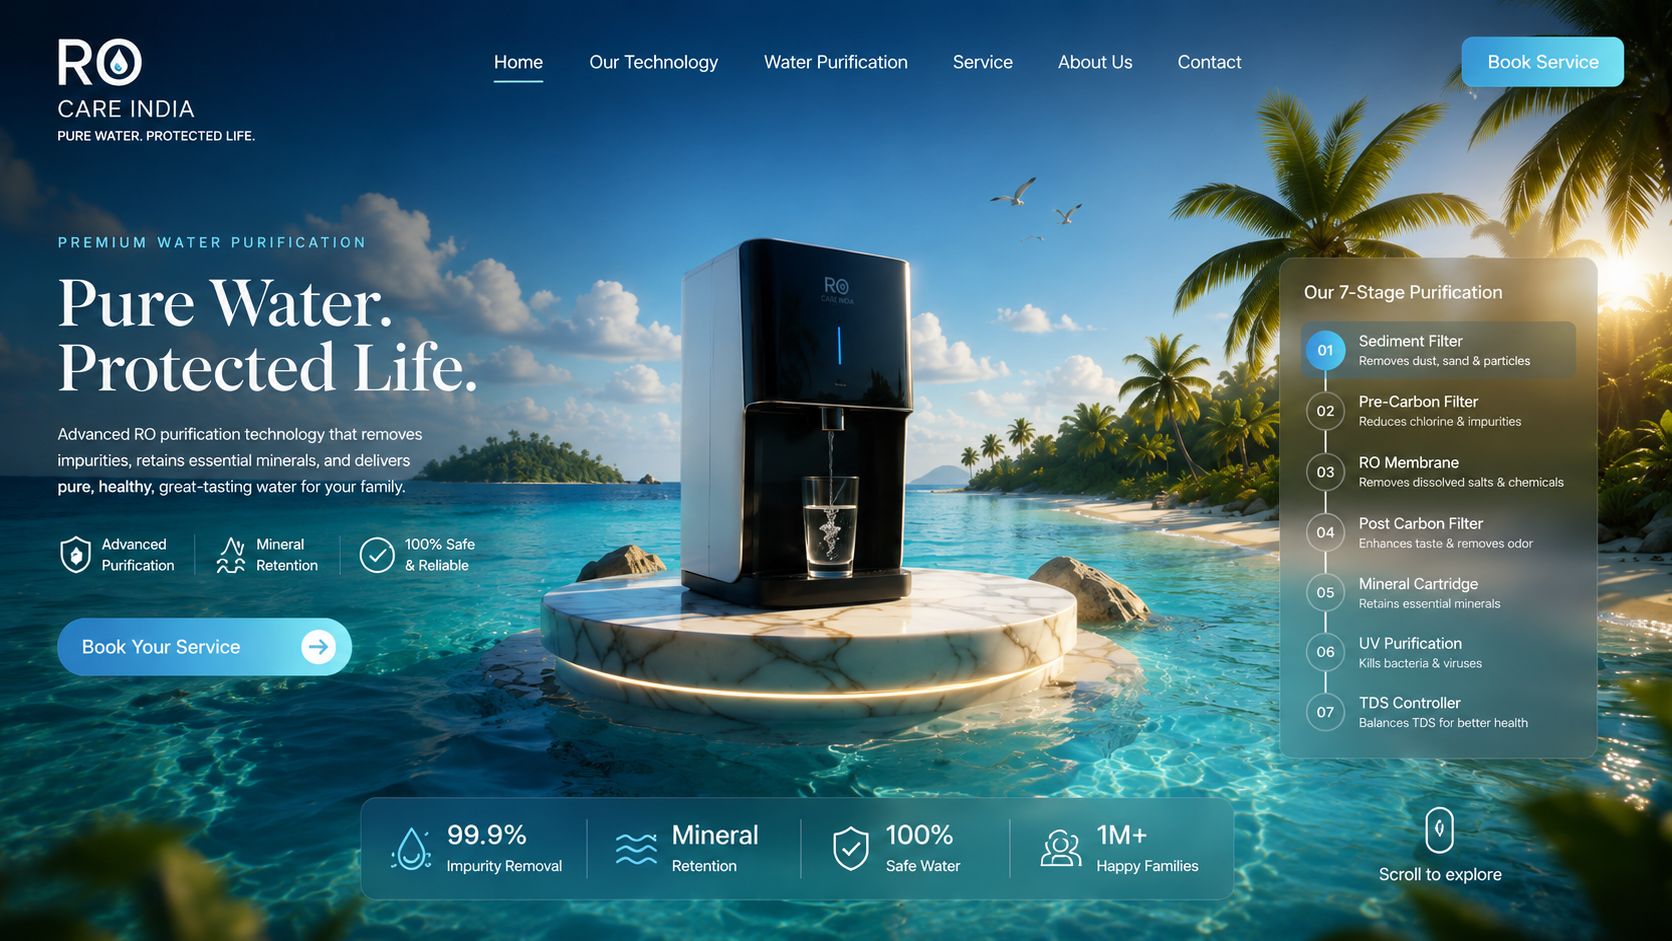
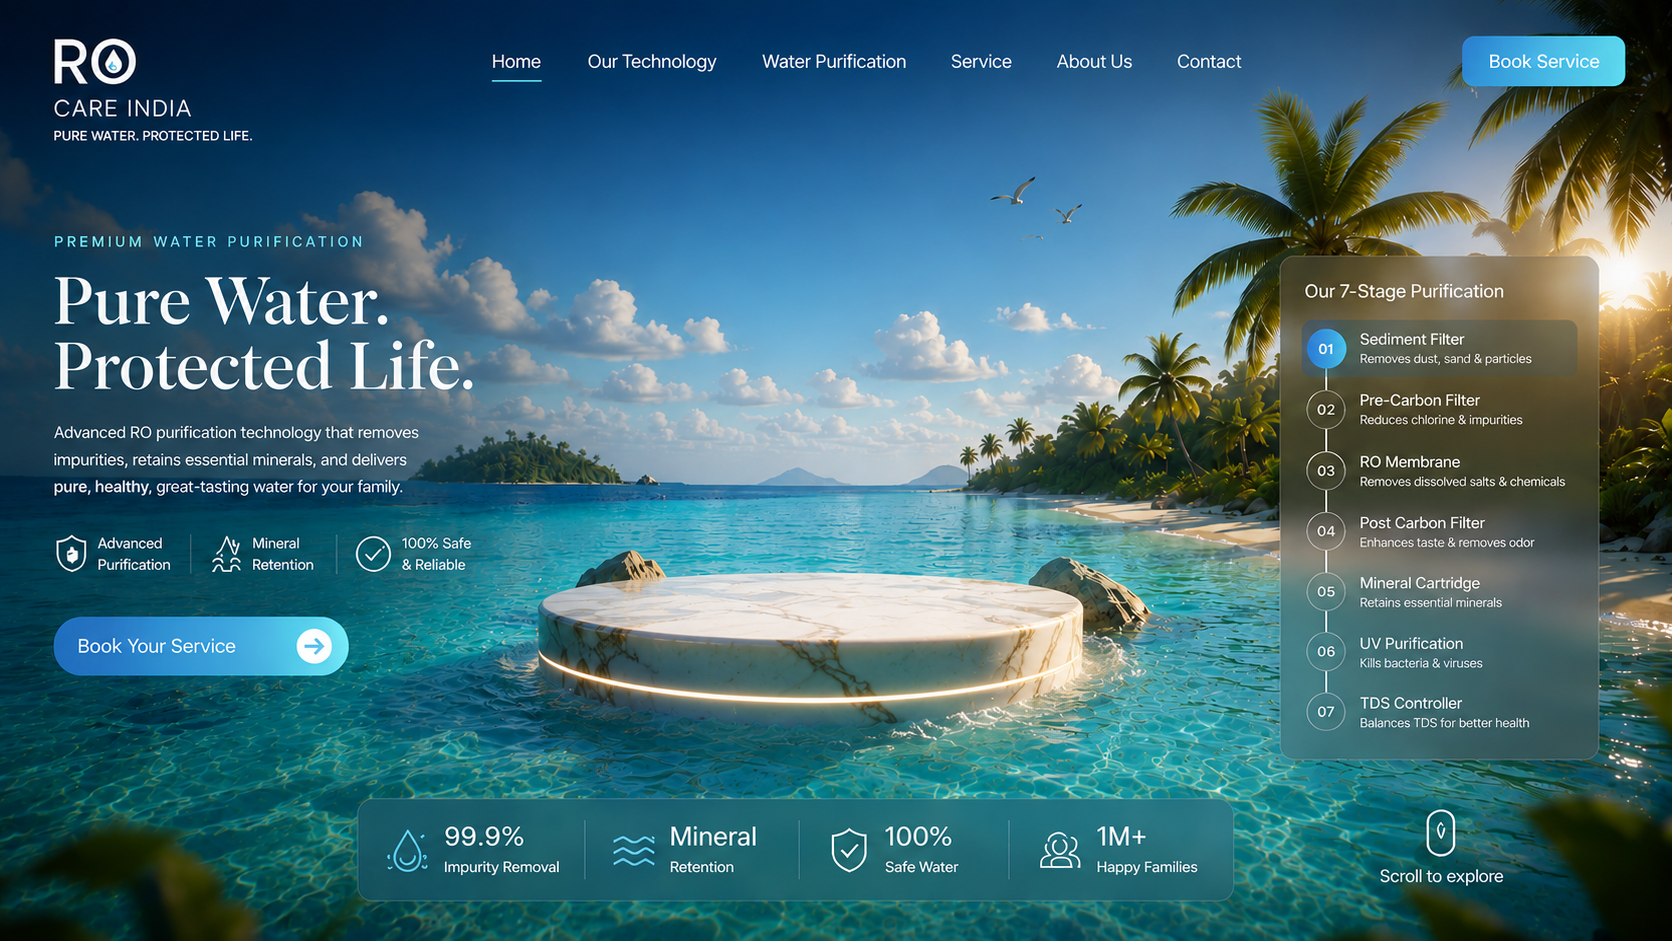
Swap to empty-podium image; seat RO cleanly on the podium
- Replace hero-plate.png with the new empty-podium scene (no baked RO)
- Re-tune RO to natural scale, centered, resting on the podium — removes the
  overlap entirely; fully 360deg drag-rotatable with "RO CARE INDIA" branding

Verified: tsc/build clean, headless render confirms the clean composite.

Claude-Session: https://claude.ai/code/session_01FLNzTWNgQH2Xff8umV11ke

diff --git a/src/config/scene.ts b/src/config/scene.ts
@@ -31,14 +31,13 @@ export const PHOTOREAL_HERO = {
   cameraPosition: [0, 1.15, 6.2] as const,
   cameraTarget: [0, 1.15, 0] as const,
   /**
-   * RO transform over the image's baked purifier — derived from the camera
-   * projection so the 3D RO covers the baked one (slightly larger so it stays
-   * covered through a full rotation).
+   * RO transform — the image now has an EMPTY podium, so the 3D RO simply rests
+   * on it at natural scale (no need to over-cover a baked purifier).
    */
-  roPosition: [-0.16, 0.58, 0] as const,
-  roScale: 1.18,
+  roPosition: [0, 0.4, 0] as const,
+  roScale: 1.0,
   /** Ground shadow-catcher Y (matches the podium top in the image). */
-  shadowPlaneY: 0.6,
+  shadowPlaneY: 0.62,
   /** Subtle pointer parallax on the background (px at the extremes). */
   parallaxStrength: 12,
 } as const;
